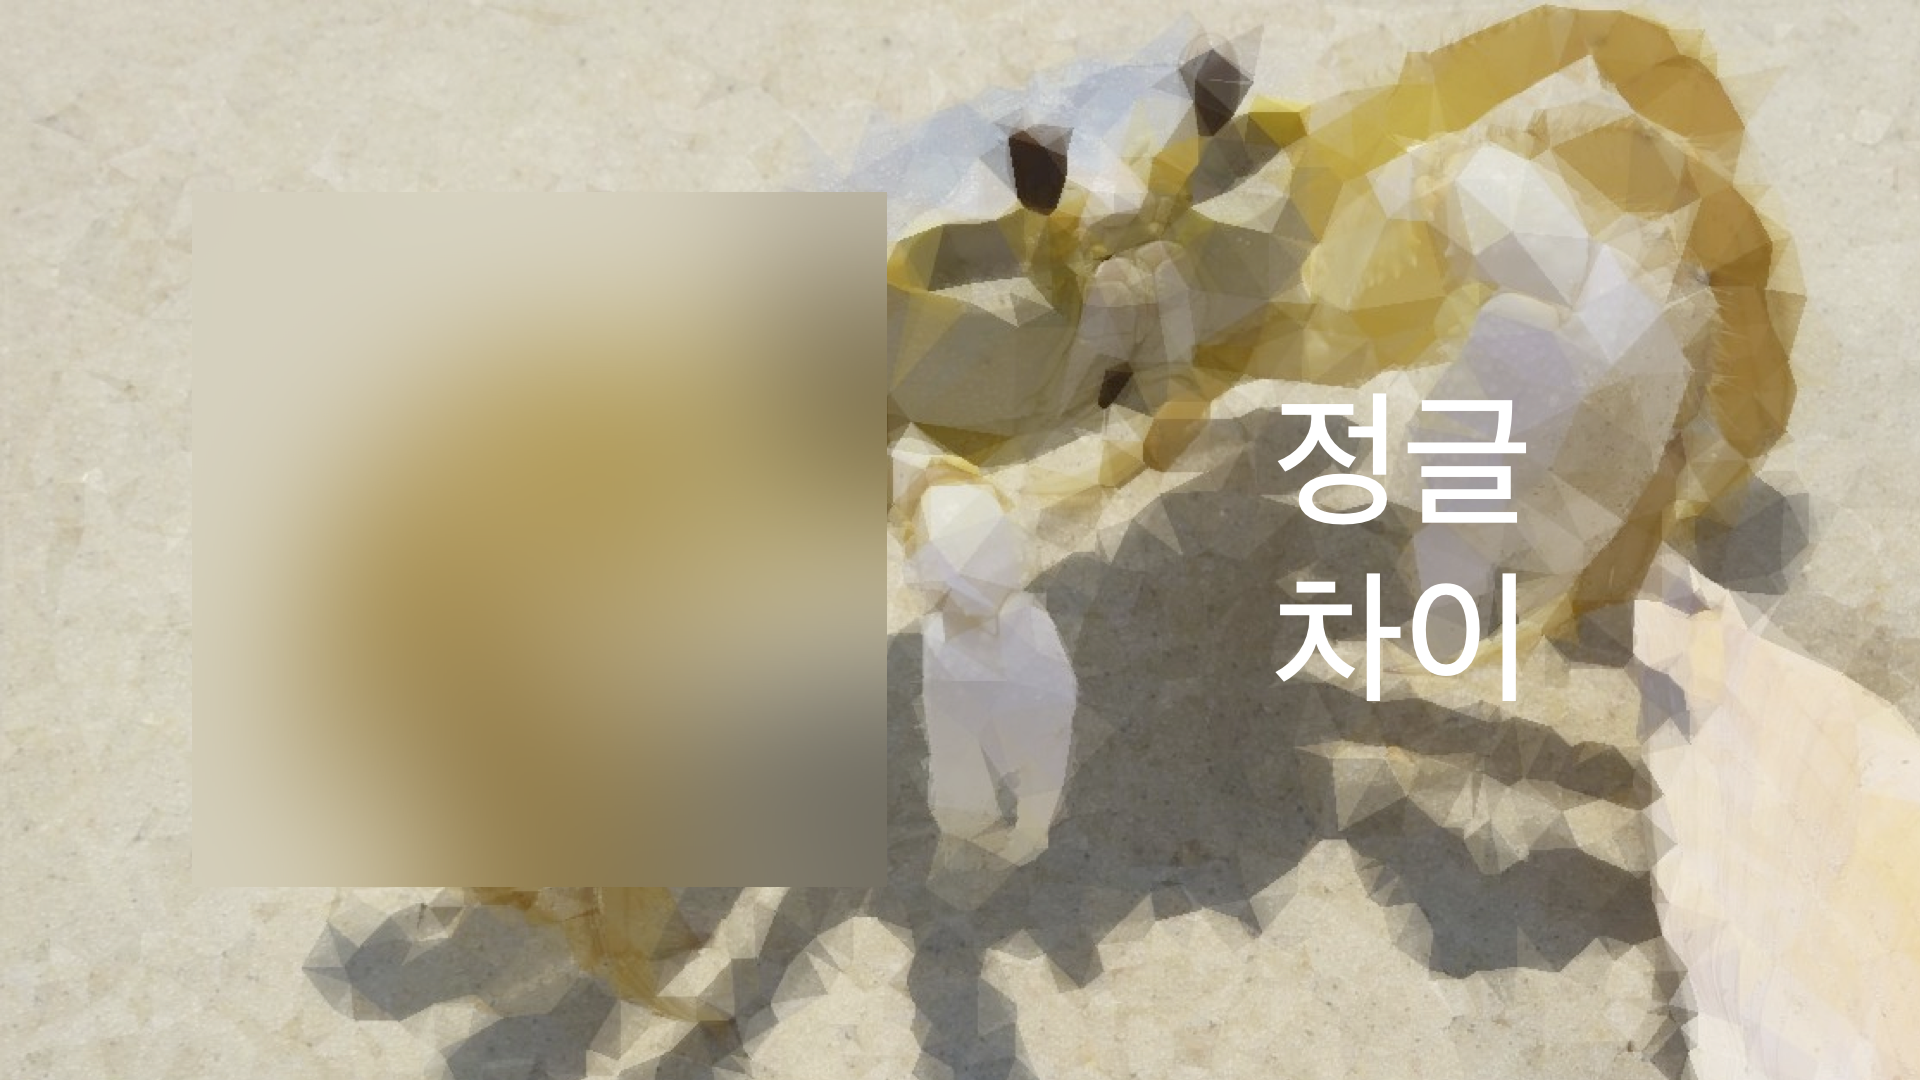
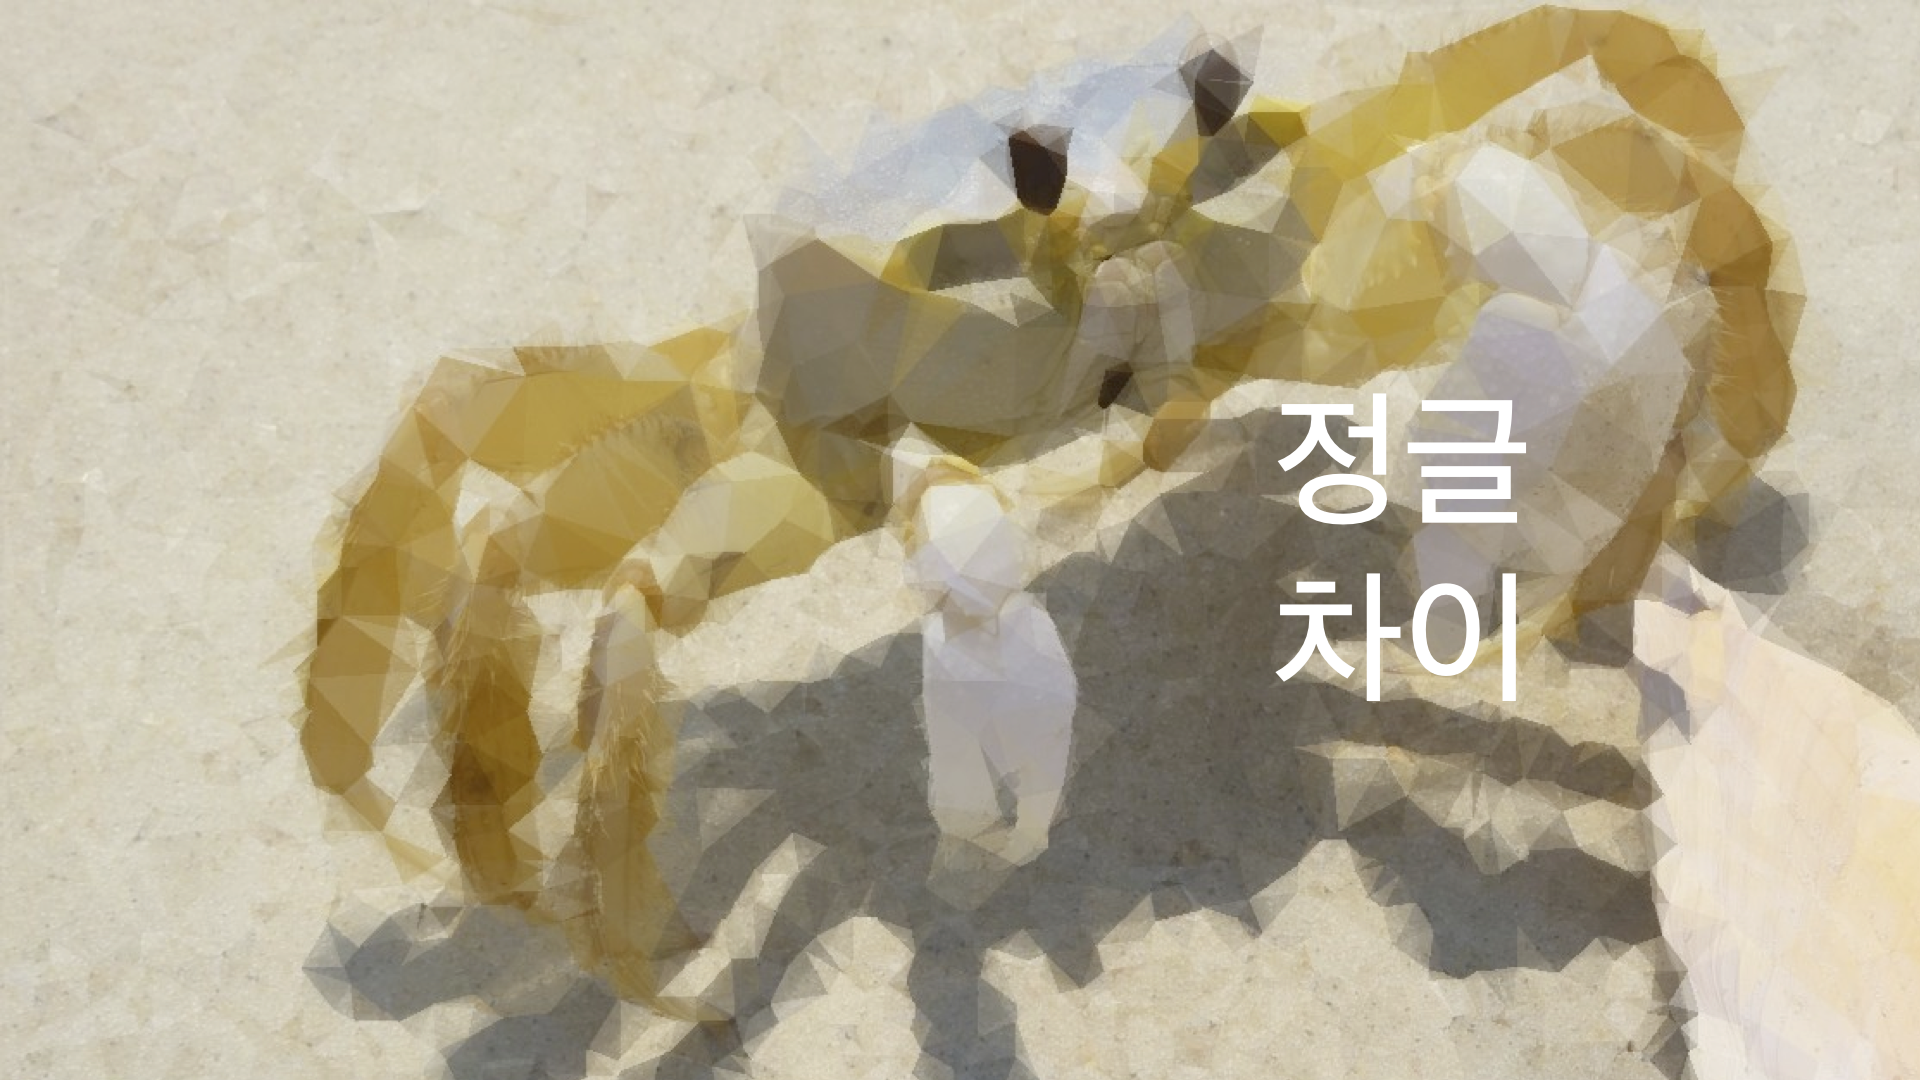
메인페이지 CSS 업데이트 (3)

Changed region(s): [[0.125, 0.1528, 0.4688, 0.825], [0.375, 0.7639, 0.4375, 0.825]]

diff --git a/static/chat.css b/static/chat.css
@@ -1,13 +1,12 @@
 body {
-max-width: 3600px;
 margin-top: 0px;
 font-size: 17px;
-color: #FFFFFF;
+color: #000000;
 font-weight: lighter;
 }
 
 .tearbox{
-width: 548px;
+width: 100%;
 background: rgba(241,241,241,0.24) !important;
 box-shadow: 4px 18px 22px 0 rgba(116,116,116,0.14) !important;
 border-radius: 1px !important;
@@ -42,12 +41,13 @@ padding-left: 0px;
 }
 
 .main_frame{
-    width: 547px;
-    margin: 192px 1032px 192px 192px;
+    width: 550px;
+    margin: 225px 1032px 225px 251px;
     z-index: 3;
-    height: 547px;
+    height: 550px;
     position: absolute;
-    padding: 74px;
+    padding: 40px;
+    background-color: #FFFFFF;
 }
 
 
@@ -58,7 +58,7 @@ font-size: 17px;
 color: #FFFFFF;
 letter-spacing: 0;
 text-align: center;
-width: 547px;
+width: 100%;
 border: 0px;
 height: 50px !important;
 }
@@ -68,20 +68,19 @@ height: 50px !important;
 font-size: 46px;
 text-align: center;
 height: 100px;
-color: #FFFFFF;
+color: #000000;
 text-decoration: underline;
 }
 
 .ment{
 font-size: 24px;
 text-align: center;
-color: #FFFFFF;
+color: #000000;
     height: 125px;
 
 }
 
 .background{
-    z-index: 1;
     position: absolute;
 
 }
@@ -89,7 +88,7 @@ color: #FFFFFF;
 
 .abutton{
 text-align: center;
-width: 548px;
+width: 100%;
 margin: 20px 0px 0px 0px;}
 
 .row.row-broken {
@@ -328,4 +327,27 @@ margin: 20px 0px 0px 0px;}
 .chat input {
     -webkit-appearance: none;
     border-radius: 0;
+}
+
+
+
+@media (max-width: 700px) {
+.background{
+width: 100%;
+z-index: 3;
+position: relative;
+padding-top: 600px;
+}
+
+.main_frame{
+width: calc(100% - 80px);
+margin: 0px 0px 0px 0px;
+
+}
+
+.container{
+width: calc(100% - 80px);
+
+}
+
 }

diff --git a/main/templates/main/index.html b/main/templates/main/index.html
@@ -6,9 +6,9 @@
 <script src="https://cdnjs.cloudflare.com/ajax/libs/popper.js/1.12.9/umd/popper.min.js" integrity="sha384-ApNbgh9B+Y1QKtv3Rn7W3mgPxhU9K/ScQsAP7hUibX39j7fakFPskvXusvfa0b4Q" crossorigin="anonymous"></script>
 <script src="https://maxcdn.bootstrapcdn.com/bootstrap/4.0.0-beta.3/js/bootstrap.min.js" integrity="sha384-a5N7Y/aK3qNeh15eJKGWxsqtnX/wWdSZSKp+81YjTmS15nvnvxKHuzaWwXHDli+4" crossorigin="anonymous"></script>
 
- <meta charset="utf-8">
+ <meta name="viewport" content="width=device-width, initial-scale=1.0, user-scalable=no,
+  maximum-scale=1.0, minimum-scale=1.0", charset="utf-8">
     {% load static %}
-    <img class="background", src="{% static 'back.png'%}">
     <div class="main_frame">
        <div class="main_title"> "롤 듀오 찾아요" </div>
        <div class="ment">당신에게 가장 적합한 듀오를 찾아드립니다.</div>
@@ -23,6 +23,7 @@
           </form>
     </div>
     </div>
+    <img class="background", src="{% static 'back.png'%}">
                    <script>
                     $(document).ready(function() {
                        $('.btn').on('click', function() {

diff --git a/static/skeleton.css b/static/skeleton.css
@@ -402,7 +402,17 @@ there.
 
 
 /* Larger than mobile */
-@media (min-width: 400px) {}
+@media (max-width: 400px) {
+.background{
+display: none;
+}
+
+.main-frame{
+width: 100%;
+}
+
+
+}
 
 /* Larger than phablet (also point when grid becomes active) */
 @media (min-width: 550px) {}
